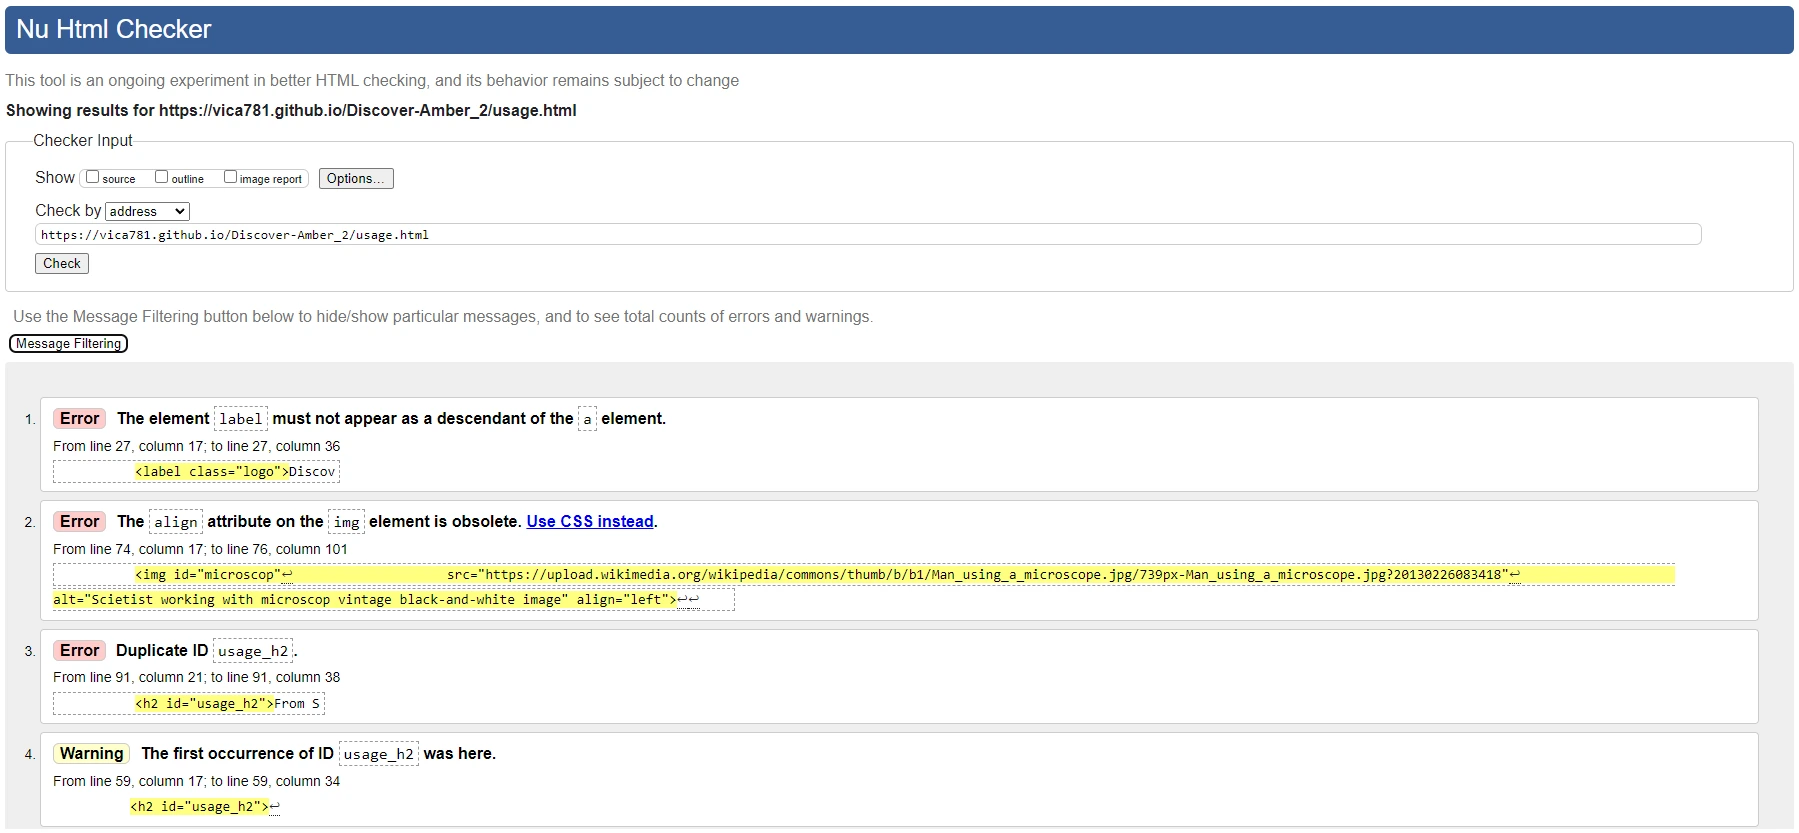
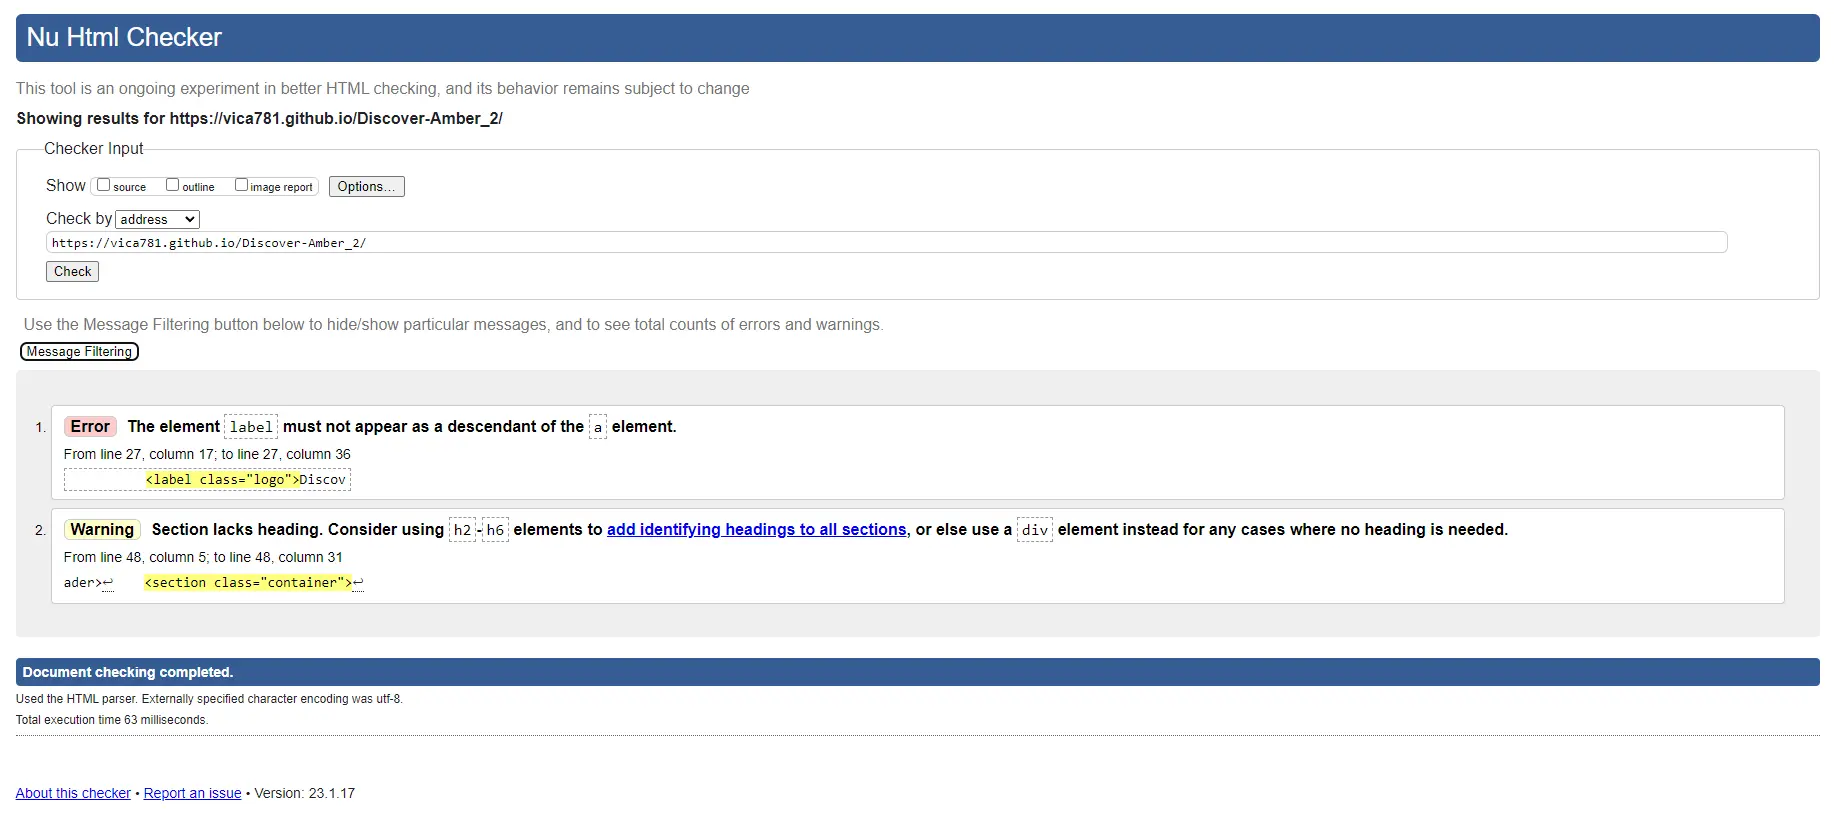
Re-place validation image

Changed region(s): [[0.0, 0.492, 0.9961, 0.984], [0.0, 0.0, 1.0, 0.4613], [0.9961, 0.1845, 1.0, 0.3383]]

diff --git a/index.html b/index.html
@@ -47,8 +47,8 @@
     </header>
     <section class="container">
         <div class="box">
-            <a href="usage.html"><img
-                    src="https://shademark.ru/wp-content/uploads/2019/01/Sekret_genialnyh_skripok_stradivari_3.jpg"
+            <a href="usage.html">
+                <img src="https://shademark.ru/wp-content/uploads/2019/01/Sekret_genialnyh_skripok_stradivari_3.jpg"
                     alt="#"></a>
             <span>Usage</span>
         </div>

diff --git a/usage.html b/usage.html
@@ -74,7 +74,7 @@
 
                 <img id="microscop"
                     src="https://upload.wikimedia.org/wikipedia/commons/thumb/b/b1/Man_using_a_microscope.jpg/739px-Man_using_a_microscope.jpg?20130226083418"
-                    alt="Scietist working with microscop vintage black-and-white image" align="left">
+                    alt="Scietist working with microscop vintage black-and-white image">
 
                 <p>
                     <br>

diff --git a/README.md b/README.md
@@ -274,6 +274,10 @@ Also, I would like to address the following:
     - result for contact.html
       ![HTML results contact](./assets/image/readme_page/validation/validation_contact_1.webp)  
       ![HTML results contact](./assets/image/readme_page/validation/validation_contact_2.webp)
+
+
+
+      
        
     - Full validation results are available on github here :
 
